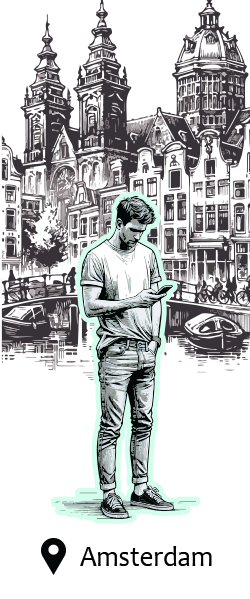
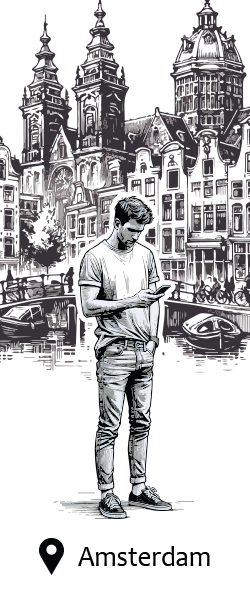
New Version 59

diff --git a/index.html b/index.html
@@ -93,10 +93,10 @@
                         <!-- Additional required wrapper -->
                         <div class="displayAd__swiper-wrapper swiper-wrapper">
                             <!-- Slides -->
-                            <div class="displayAd__swiper-slide swiper-slide"><iframe src="cube/300x250/1/index.html" title="slider one" width="300" height="250"></iframe></div>
-                            <div class="displayAd__swiper-slide swiper-slide"><iframe src="cube/300x250/2/index.html" title="slider one" width="300" height="250"></iframe></div>
-                            <div class="displayAd__swiper-slide swiper-slide"><iframe src="cube/300x250/3/index.html" title="slider one" width="300" height="250"></iframe></div>
-                            <div class="displayAd__swiper-slide swiper-slide"><iframe src="cube/300x250/4/index.html" title="slider one" width="300" height="250"></iframe></div>
+                            <div class="displayAd__swiper-slide swiper-slide"><div class="displayAd__swiper--bg"><iframe src="cube/300x250/1/index.html" title="slider one" width="300" height="250"></iframe></div></div>
+                            <div class="displayAd__swiper-slide swiper-slide"><div class="displayAd__swiper--bg"><iframe src="cube/300x250/2/index.html" title="slider one" width="300" height="250"></iframe></div></div>
+                            <div class="displayAd__swiper-slide swiper-slide"><div class="displayAd__swiper--bg"><iframe src="cube/300x250/3/index.html" title="slider one" width="300" height="250"></iframe></div></div>
+                            <div class="displayAd__swiper-slide swiper-slide"><div class="displayAd__swiper--bg"><iframe src="cube/300x250/4/index.html" title="slider one" width="300" height="250"></iframe></div></div>
                         </div>
                 
                         <!-- If we need pagination -->

diff --git a/css/style.css b/css/style.css
@@ -239,7 +239,8 @@ main {
   justify-content: center;
   align-items: center;
   padding: 10rem 0;
-  height: 100vh; }
+  height: 100vh;
+  margin-bottom: 20rem; }
   .displayAd__images {
     width: 100%; }
     .displayAd__images img {
@@ -264,6 +265,9 @@ iframe {
 .swiper-container {
   width: 300px;
   height: 250px; }
+
+.displayAd__swiper--bg {
+  position: absolute; }
 
 .swiper-button-prev {
   position: absolute;
@@ -315,7 +319,7 @@ iframe {
   align-items: center;
   padding: 20rem;
   height: 100vh;
-  background-color: #d3fded; }
+  background-color: #fff; }
   .dynamicAd__images {
     display: flex;
     flex-direction: row;

diff --git a/js/main.js b/js/main.js
@@ -265,7 +265,7 @@ gsap.to(".weboramaAd__heading", {
 });
 
 gsap.to(".shadowAd__heading", {
-  backgroundPosition: "100% -25%",
+  backgroundPosition: "100% -5%",
   scrollTrigger: {
     trigger: ".shadowAd",
     start: "top 90vh",
